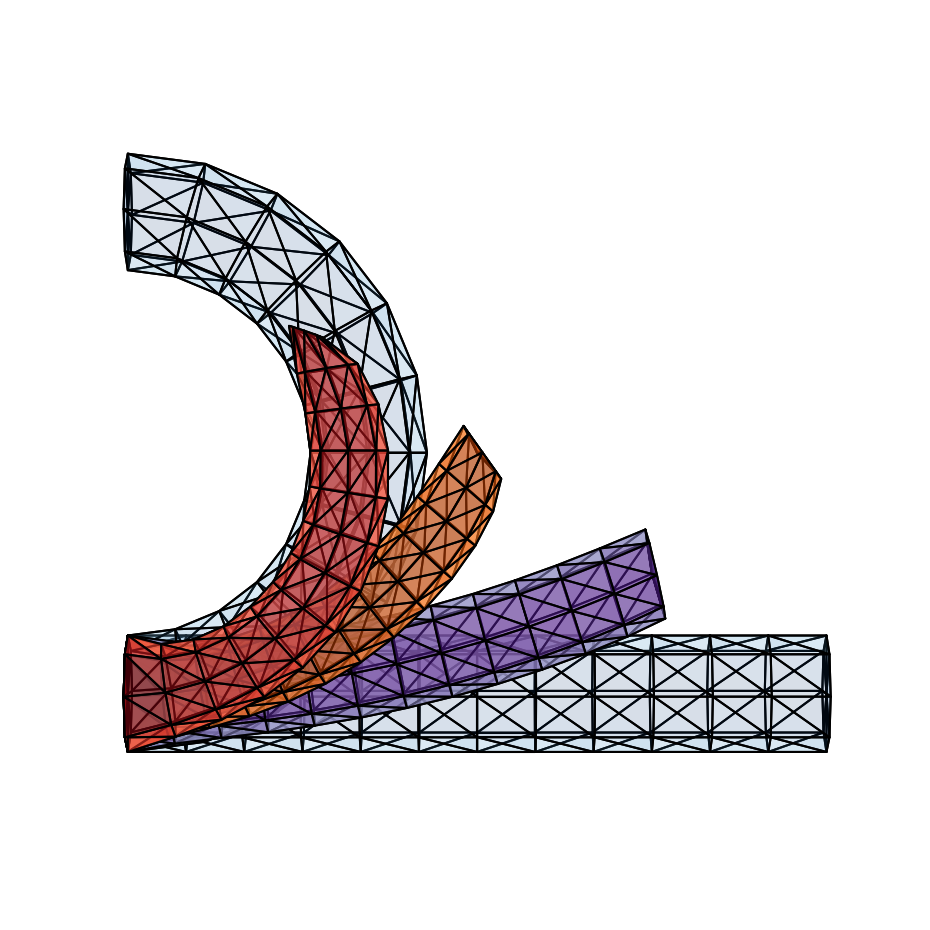
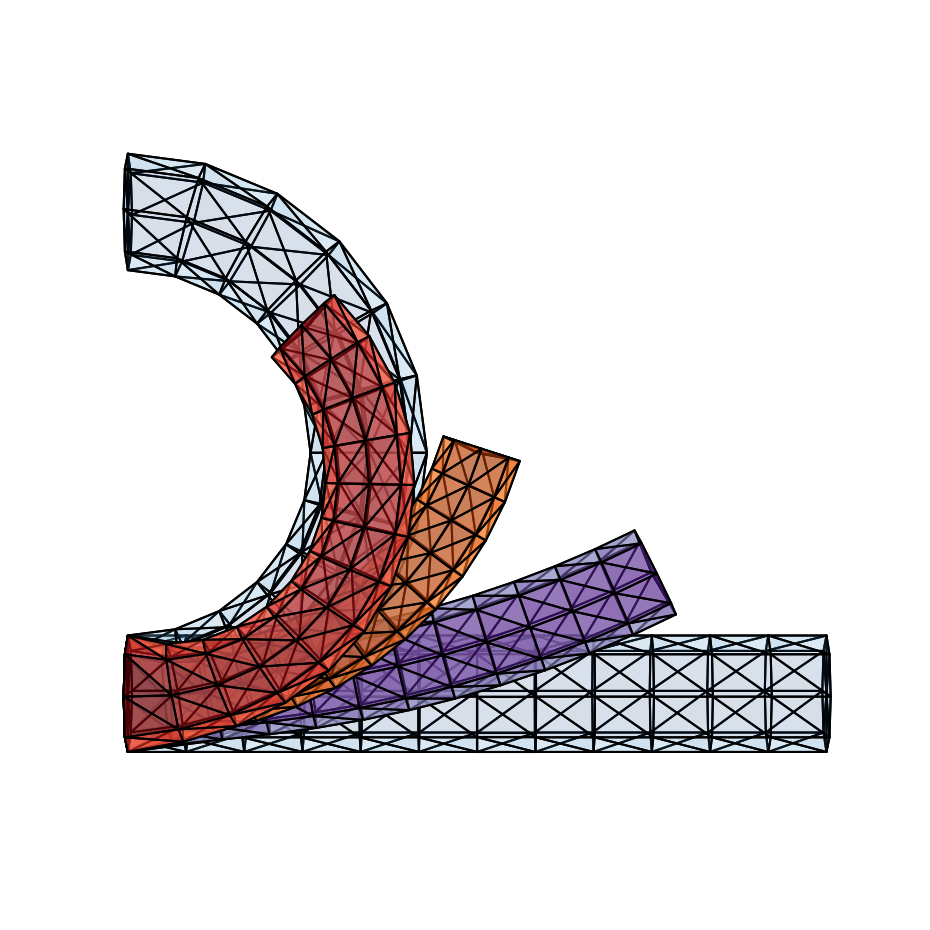
Fix the rotation log at 180 degrees (pinched tube end) (#4)
calculate_rotation_log returned a zero matrix for rotations by exactly
pi, so the curved tube's eight end-cap faces were blended as if they
were unrotated while their neighbours rotated by ~175 degrees. That
sheared the end cap: in the meshik.py example the end ring's radius
dropped to 0.71 (should be 1) and the residual was 2.76.

The log is now computed with scipy's Rotation (exact at pi, well
conditioned near it, batched). A rotation by pi has two valid logs
(axis n or -n), and mixing them across adjacent faces tears the mesh,
so get_log_rotations picks the sign that agrees with the neighbouring
faces (paper footnote 1); build_model passes the faces for this.

meshik.py example now: end ring radius 1.00, residual 0.09,
w = (0.505, 0.500). Golden output regenerated; README tube figures
regenerated (cat figure unchanged). The one-hot reconstruction test
that documented the bug now passes; tests/test_rotation_log.py covers
the log/exp roundtrip, the pi and identity cases, and the end-cap sign
consistency.

Changed region(s): [[0.1247, 0.3118, 0.7484, 0.8108]]

diff --git a/matrices.py b/matrices.py
@@ -1,7 +1,8 @@
 
 import numpy as np
 from scipy.linalg import polar, expm
-from math import sin, pi, acos
+from scipy.spatial.transform import Rotation
+from math import pi
 
 # MATRICES AND VECTORS
 
@@ -96,23 +97,65 @@ def get_M_components(feature_vectors):
     return np.array(M_rotations), np.array(M_shears)
 
 def calculate_rotation_log(R):
-    R = R / np.linalg.det(R)
-    if np.allclose(R, np.eye(3)):
-        return np.zeros((3, 3))
-    tr = max(min(np.trace(R), 3), -1)
-    theta = acos((tr - 1) / 2)
-    if np.isclose(theta, 0):
-        return np.zeros((3, 3))
-    elif np.isclose(theta, pi):
-        return np.zeros((3, 3))
-    K = 1 / (2 * sin(theta)) * (R - R.T)
-    return theta * K
+    '''
+    Matrix logarithm of rotations R (..., 3, 3): the skew-symmetric matrices (..., 3, 3) whose
+    axis-angle vectors have angle in [0, pi]. Exact at pi and well conditioned near it.
+    '''
+    R = np.asarray(R)
+    rotvecs = Rotation.from_matrix(R.reshape(-1, 3, 3)).as_rotvec().reshape(R.shape[:-2] + (3,))
+    return skew(rotvecs)
 
-def get_log_rotations(M_rotations):
+def skew(v):
+    '''
+    Skew-symmetric matrices (..., 3, 3) of vectors v (..., 3), so that skew(v) @ u = v x u
+    '''
+    v = np.asarray(v)
+    K = np.zeros(v.shape[:-1] + (3, 3))
+    K[..., 0, 1], K[..., 0, 2], K[..., 1, 2] = -v[..., 2], v[..., 1], -v[..., 0]
+    K[..., 1, 0], K[..., 2, 0], K[..., 2, 1] = v[..., 2], -v[..., 1], v[..., 0]
+    return K
+
+def unskew(K):
+    return np.stack([K[..., 2, 1], K[..., 0, 2], K[..., 1, 0]], axis=-1)
+
+def face_neighbours(faces):
+    '''
+    For each face, the indices of the other faces sharing at least one of its original three vertices
+    '''
+    vertex_faces = {}
+    for i, face in enumerate(faces):
+        for v in face[:3]:
+            vertex_faces.setdefault(v, []).append(i)
+    return [sorted({j for v in face[:3] for j in vertex_faces[v]} - {i}) for i, face in enumerate(faces)]
+
+def get_log_rotations(M_rotations, faces=None):
     '''
     Log of every rotation, shape (N, m, 3, 3). Depends only on the examples, so computed once.
+
+    A rotation by exactly pi has two equally valid logs (axis n or -n). Blending a face whose log
+    uses the opposite sign from its neighbours tears the mesh, so for those faces the sign is chosen
+    to agree with the neighbouring faces (paper footnote 1). faces (m, 4) enables this; without it
+    the sign is chosen to agree with the mesh as a whole.
     '''
-    return np.array([[calculate_rotation_log(R) for R in M_rotation] for M_rotation in M_rotations])
+    log_rotations = calculate_rotation_log(np.asarray(M_rotations))
+    rotvecs = unskew(log_rotations)
+    angles = np.linalg.norm(rotvecs, axis=-1)
+    neighbours = face_neighbours(faces) if faces is not None else None
+    for i in range(len(rotvecs)):
+        at_pi = np.isclose(angles[i], pi, atol=1e-6)
+        if not at_pi.any():
+            continue
+        others = rotvecs[i][~at_pi & (angles[i] > 0.5)]
+        reference = others.mean(axis=0) if len(others) else np.zeros(3)
+        for j in np.where(at_pi)[0]:
+            ref = reference
+            if neighbours is not None:
+                near = [k for k in neighbours[j] if not at_pi[k] and angles[i][k] > 0.5]
+                if near:
+                    ref = rotvecs[i][near].mean(axis=0)
+            if rotvecs[i][j] @ ref < 0:
+                rotvecs[i][j] *= -1
+    return skew(rotvecs)
 
 def compute_Mw_Dw(w, log_rotations, M_shears):
     '''

diff --git a/tests/test_rotation_log.py b/tests/test_rotation_log.py
@@ -1,0 +1,53 @@
+"""The rotation log: exact for general rotations, and branch-consistent at 180 degrees.
+
+The curved tube's 8 end-cap faces are rotated by exactly pi. Their log is ambiguous (axis n or -n);
+a sign that disagrees with the neighbouring faces tears the end cap when blending (the "pinched end").
+"""
+import numpy as np
+from scipy.linalg import expm
+from scipy.spatial.transform import Rotation
+
+from matrices import calculate_rotation_log, get_log_rotations, skew, unskew
+
+
+def test_log_is_inverse_of_exp():
+    rng = np.random.default_rng(0)
+    rotvecs = rng.standard_normal((50, 3))
+    rotvecs *= (rng.uniform(0, np.pi, 50) / np.linalg.norm(rotvecs, axis=1))[:, None]  # angles in [0, pi)
+    R = Rotation.from_rotvec(rotvecs).as_matrix()
+    np.testing.assert_allclose(unskew(calculate_rotation_log(R)), rotvecs, atol=1e-10)
+    np.testing.assert_allclose(np.array([expm(K) for K in calculate_rotation_log(R)]), R, atol=1e-10)
+
+
+def test_log_at_pi_and_identity():
+    R_pi = np.diag([-1.0, -1.0, 1.0])  # 180 degrees about z
+    K = calculate_rotation_log(R_pi)
+    assert np.isclose(np.linalg.norm(unskew(K)), np.pi)
+    np.testing.assert_allclose(expm(K), R_pi, atol=1e-12)
+    np.testing.assert_array_equal(calculate_rotation_log(np.eye(3)), np.zeros((3, 3)))
+
+
+def test_skew_unskew():
+    v = np.array([1.0, 2.0, 3.0])
+    u = np.array([-0.5, 0.25, 4.0])
+    np.testing.assert_allclose(skew(v) @ u, np.cross(v, u))
+    np.testing.assert_array_equal(unskew(skew(v)), v)
+
+
+def test_end_cap_logs_agree_with_neighbours(tube_model):
+    """Curved tube: all 8 end-cap faces are at pi, and their axes must point the same way as the side faces."""
+    rotvecs = unskew(tube_model.log_rotations[1])
+    angles = np.linalg.norm(rotvecs, axis=1)
+    at_pi = np.isclose(angles, np.pi, atol=1e-6)
+    assert at_pi.sum() == 8
+    axis = rotvecs / np.maximum(angles, 1e-12)[:, None]
+    side = axis[~at_pi & (angles > 0.5)].mean(axis=0)
+    assert np.all(axis[at_pi] @ side > 0.99)
+
+
+def test_without_faces_falls_back_to_global_reference(tube_model):
+    from matrices import convert_feature_to_transformations, polar_decomposition
+
+    rotations = np.array([polar_decomposition(convert_feature_to_transformations(f))[0]
+                          for f in tube_model.feature_vectors.T])
+    np.testing.assert_allclose(get_log_rotations(rotations), tube_model.log_rotations, atol=1e-12)

diff --git a/tests/test_golden.py b/tests/test_golden.py
@@ -1,4 +1,4 @@
-"""Tripwire: the tube example must keep producing the output it did before the refactor."""
+"""Tripwire: the tube example must keep producing the same output (regenerate golden only on intended changes)."""
 import os
 
 import numpy as np
@@ -8,7 +8,6 @@ GOLDEN = os.path.join(os.path.dirname(__file__), "golden", "tube.npz")
 
 def test_tube_example_matches_golden(meshik_run):
     golden = np.load(GOLDEN)
-    # atol 1e-8: lsqr-level noise from computing the rotation logs once (Phase 1) rather than every iteration
     np.testing.assert_allclose(meshik_run["x_result"].ravel(), golden["x_result"].ravel(), rtol=1e-7, atol=1e-8)
     np.testing.assert_allclose(meshik_run["w_result"].ravel(), golden["w_result"].ravel(), rtol=1e-7, atol=1e-8)
     np.testing.assert_allclose(meshik_run["error"], golden["error"], rtol=1e-7)

diff --git a/tests/test_jacobian.py b/tests/test_jacobian.py
@@ -33,11 +33,6 @@ def test_compute_Mw_Dw_does_not_mutate_inputs(tube_model):
     np.testing.assert_array_equal(tube_model.shears, S)
 
 
-@pytest.mark.xfail(
-    strict=True,
-    reason="calculate_rotation_log (matrices.py) returns a zero log for 180-degree rotations, so the curved "
-    "tube's 8 end-cap faces are treated as unrotated. Fixed by the Rodrigues log/exp in Phase 2.",
-)
 def test_Mw_at_one_hot_weights_reproduces_example(tube_model):
     """M(e_i) must return example i's feature vector exactly (exp(log R) S = R S = T)."""
     L, S, N, F = tube_model.log_rotations, tube_model.shears, tube_model.N, tube_model.feature_vectors

diff --git a/model.py b/model.py
@@ -47,5 +47,5 @@ def build_model(vertices_list, faces):
     feature_vectors = np.array([G @ x for x in xs]).reshape(N, -1).T
 
     M_rotations, M_shears = get_M_components(feature_vectors)
-    log_rotations = get_log_rotations(M_rotations)
+    log_rotations = get_log_rotations(M_rotations, faces)
     return MeshIKModel(faces, xs, G, feature_vectors, log_rotations, M_shears)
